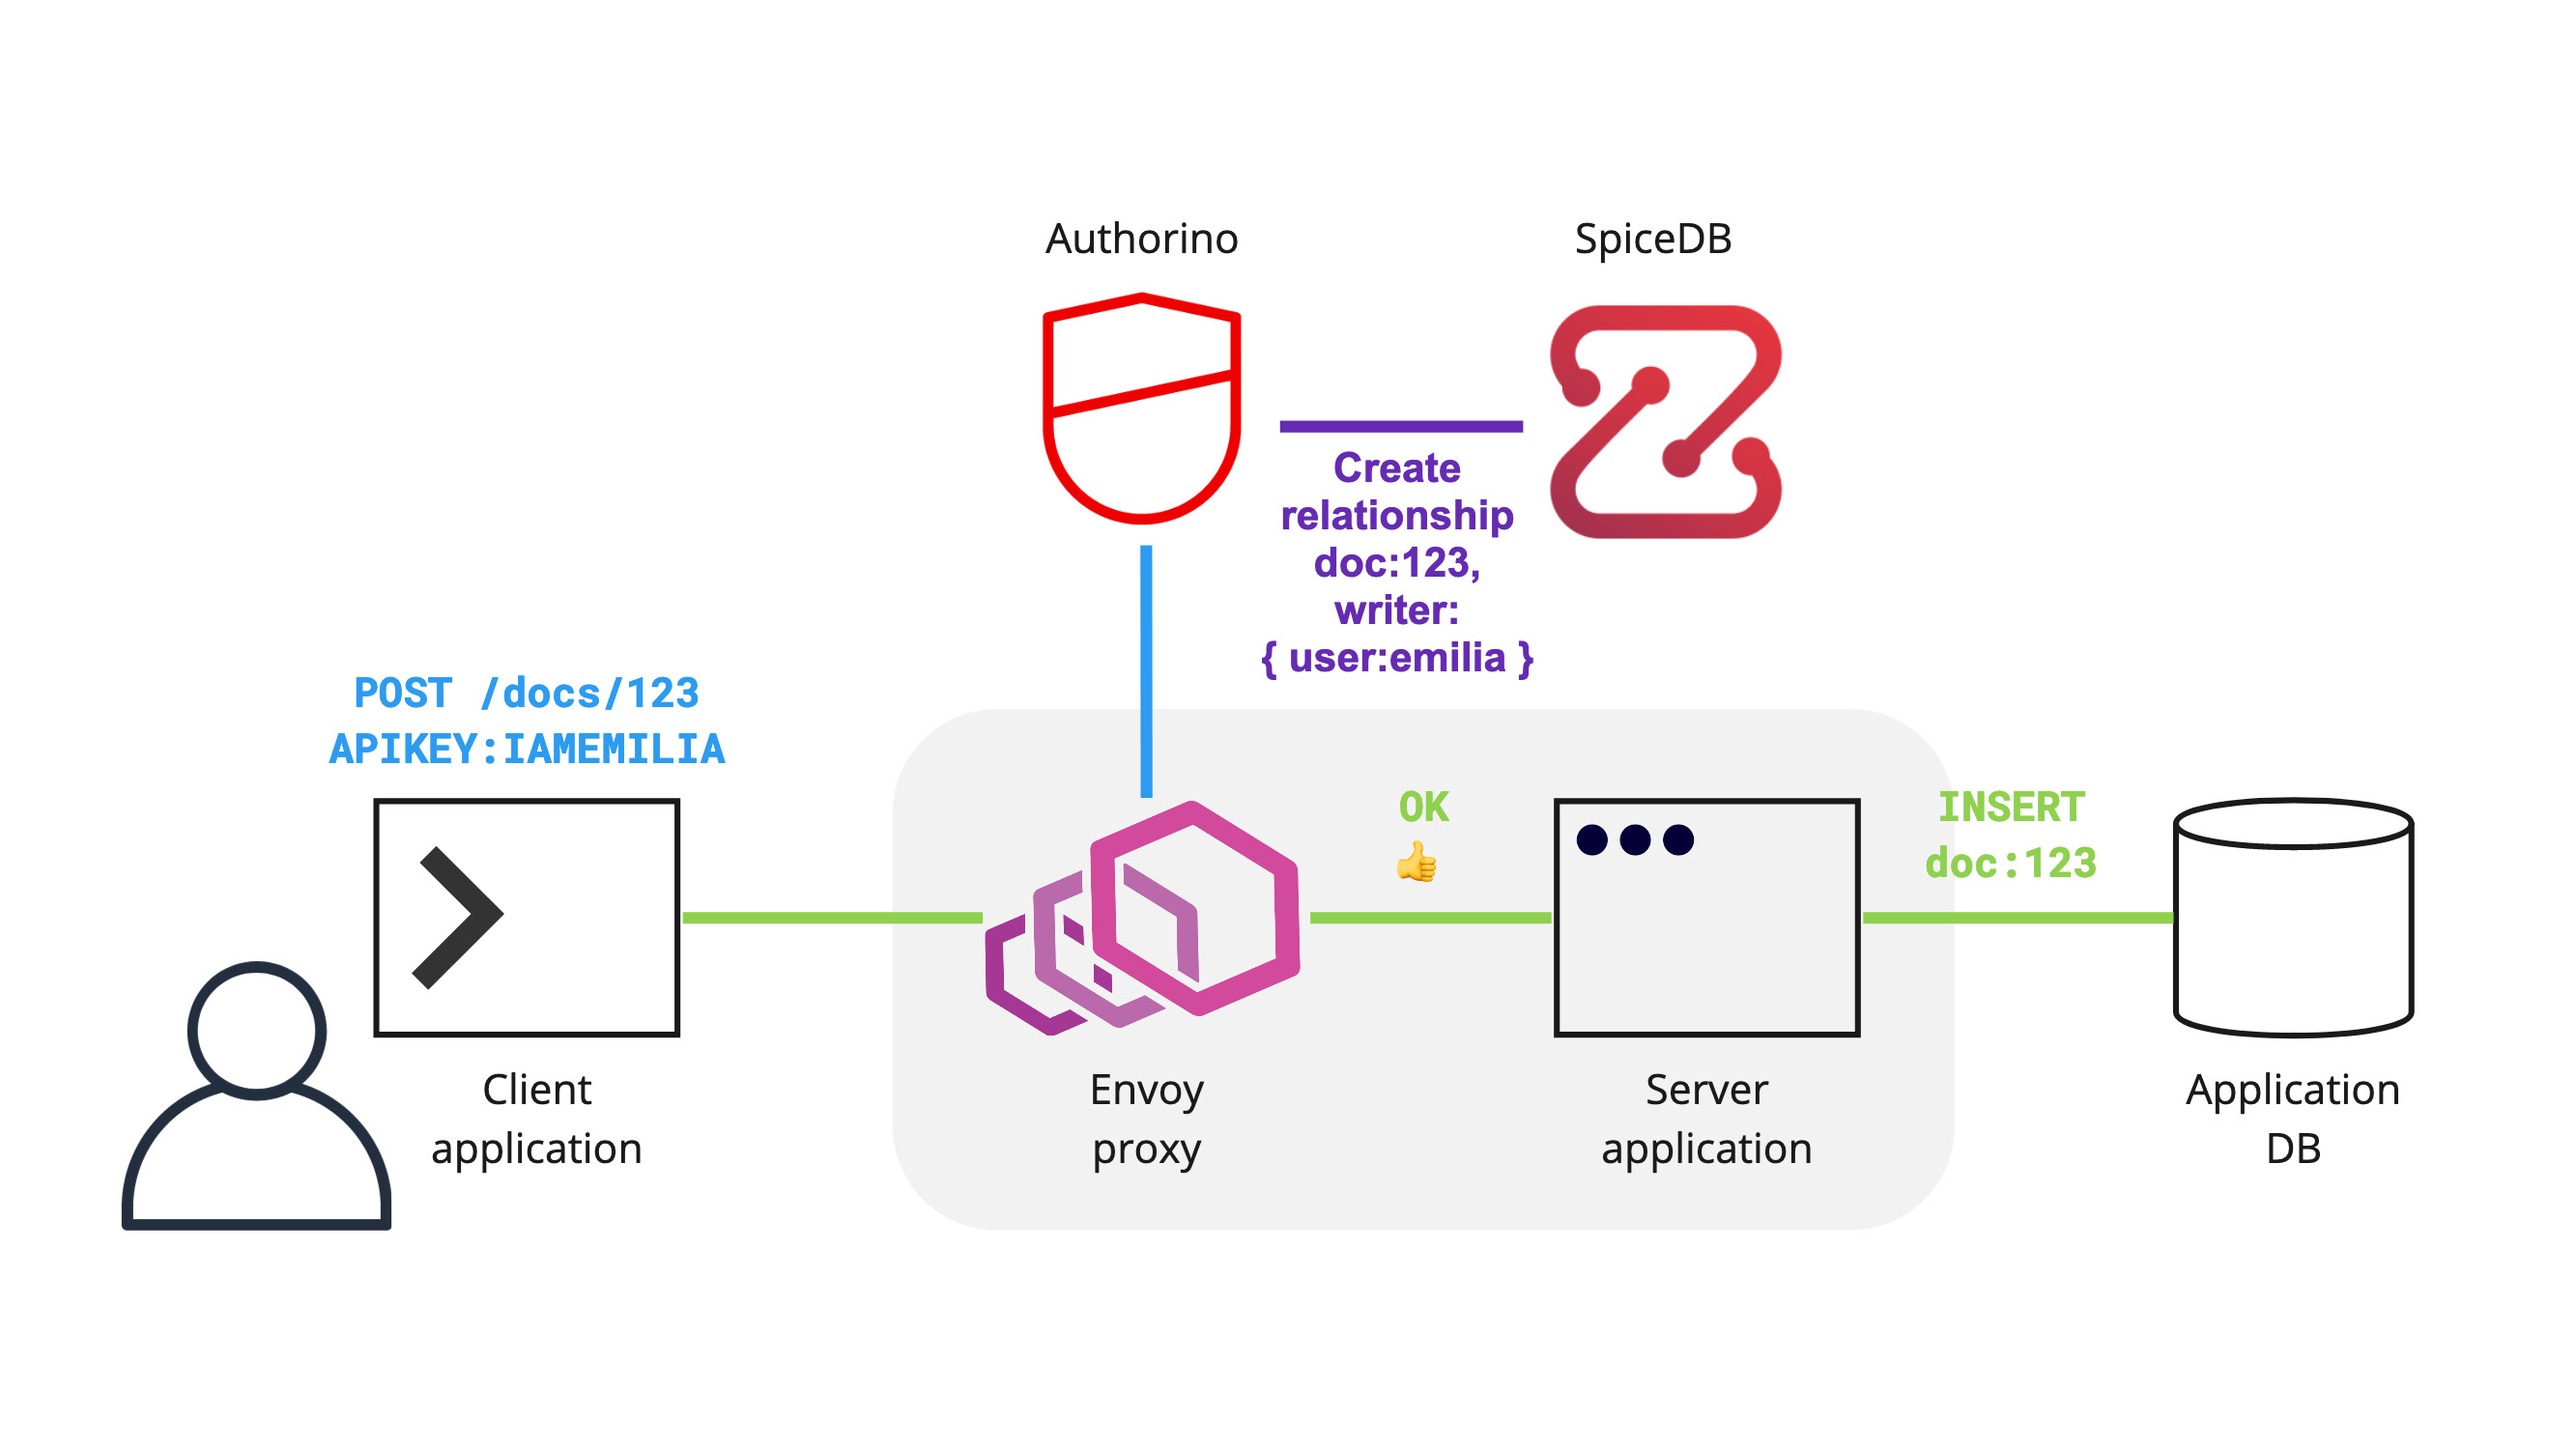
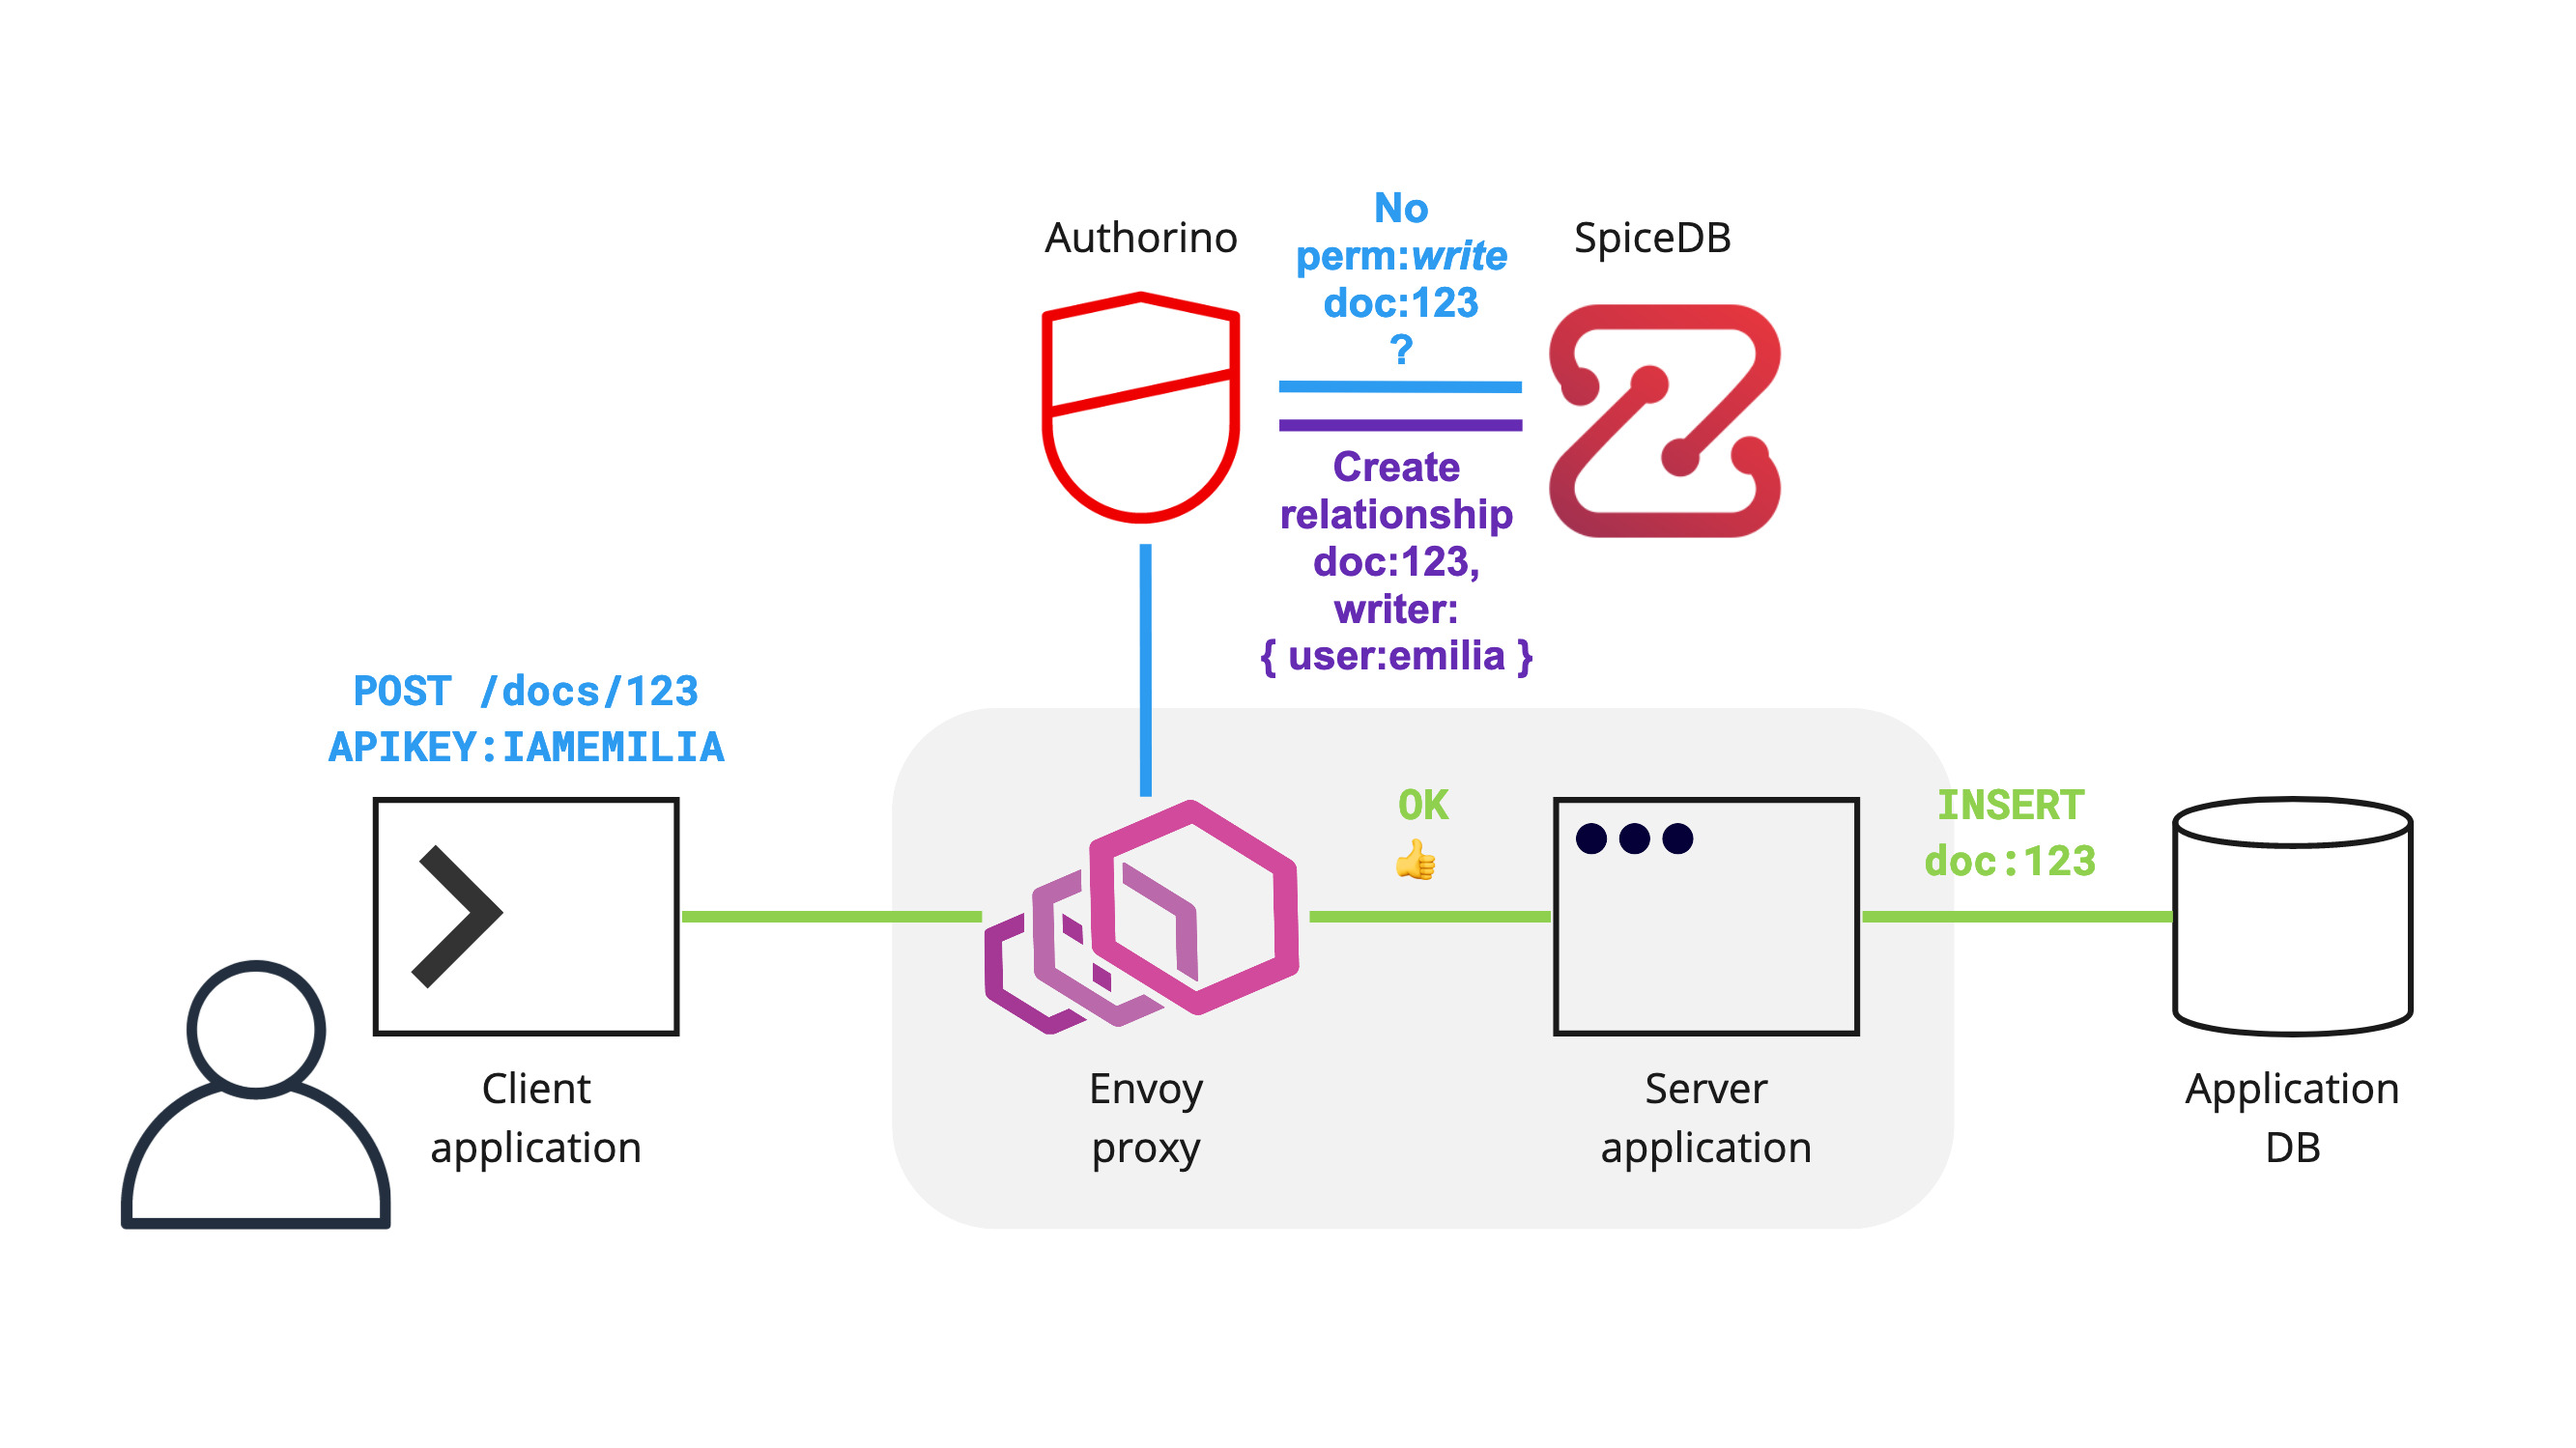
bug fix: do not send callbacks without checking the authorization and avoid multiple write relationships on the same doc

diff --git a/README.md b/README.md
@@ -503,6 +503,22 @@ The full scope of the demo consists of protecting endpoints of a REST API that h
     hosts:
       - docs-api.127.0.0.1.nip.io
 
+    patterns:
+      create:
+        - selector: context.request.http.method
+          operator: eq
+          value: POST
+        - selector: context.request.http.path.@extract:{"sep":"/","pos":3}
+          operator: neq
+          value: allow
+      list:
+        - selector: context.request.http.method
+          operator: eq
+          value: GET
+        - selector: context.request.http.path.@extract:{"sep":"/","pos":2}
+          operator: eq
+          value: ""
+
     # Users authenticated with API keys
     identity:
       - name: api-key-users
@@ -515,15 +531,10 @@ The full scope of the demo consists of protecting endpoints of a REST API that h
           keySelector: APIKEY
 
     metadata:
-      # List resources → lookup resources the user has access to
-      - name: permission-lookup
+      # List resources → lookup resources the user has read access to
+      - name: permission-lookup-read
         when:
-          - selector: context.request.http.method
-            operator: eq
-            value: GET
-          - selector: context.request.http.path.@extract:{"sep":"/","pos":2}
-            operator: eq
-            value: ""
+          - patternRef: list
         http:
           endpoint: http://spicedb.spicedb.svc.cluster.local:8443/v1/permissions/resources
           method: POST
@@ -540,6 +551,29 @@ The full scope of the demo consists of protecting endpoints of a REST API that h
                       "objectId":"{auth.identity.metadata.annotations.username}"
                     \}
                   \}
+                \}
+          sharedSecretRef:
+            name: spicedb
+            key: token
+
+      # Create resource → lookup resources the user has write access to
+      - name: permission-lookup-write
+        when:
+          - patternRef: create
+        http:
+          endpoint: http://spicedb.spicedb.svc.cluster.local:8443/v1/permissions/subjects
+          method: POST
+          contentType: application/json
+          body:
+            valueFrom:
+              authJSON: |
+                \{
+                  "resource": \{
+                    "objectType": "doc",
+                    "objectId": "{context.request.http.path.@extract:{"sep":"/","pos":2}}"
+                  \},
+                  "permission": "write",
+                  "subjectObjectType": "user"
                 \}
           sharedSecretRef:
             name: spicedb
@@ -580,6 +614,16 @@ The full scope of the demo consists of protecting endpoints of a REST API that h
             valueFrom:
               authJSON: context.request.http.method.@replace:{"old":"GET","new":"read"}.@replace:{"old":"DELETE","new":"write"}
 
+      # Create a resource → ensure the writer relationship does not exist in SpiceDB
+      - name: create-resource
+        when:
+          - patternRef: create
+        json:
+          rules:
+            - selector: auth.metadata.permission-lookup-write.result
+              operator: eq
+              value: ""
+
       # Grant or revoke access to resource → check in SpiceDB if the user has write permission
       - name: grant-or-revoke-access-to-resource
         when:
@@ -611,12 +655,7 @@ The full scope of the demo consists of protecting endpoints of a REST API that h
       # Create new resource → inject user info in the request
       - name: x-ext-auth-data
         when:
-          - selector: context.request.http.method
-            operator: eq
-            value: POST
-          - selector: context.request.http.path.@extract:{"sep":"/","pos":3}
-            operator: neq
-            value: allow
+          - patternRef: create
         json:
           properties:
             - name: author
@@ -627,31 +666,23 @@ The full scope of the demo consists of protecting endpoints of a REST API that h
       # List resources → filter resource ids the user has access to
       - name: x-filter
         when:
-          - selector: context.request.http.method
-            operator: eq
-            value: GET
-          - selector: context.request.http.path.@extract:{"sep":"/","pos":2}
-            operator: eq
-            value: ""
+          - patternRef: list
         json:
           properties:
             - name: id
               valueFrom:
-                authJSON: auth.metadata.permission-lookup.result.resourceObjectId
+                authJSON: auth.metadata.permission-lookup-read.result.resourceObjectId
             - name: ids
               valueFrom:
-                authJSON: auth.metadata.permission-lookup.#.result.resourceObjectId
+                authJSON: auth.metadata.permission-lookup-read.#.result.resourceObjectId
 
     callbacks:
       # Create new resource → create 'writer' relationship in SpiceDB
       - name: create-resource
         when:
-          - selector: context.request.http.method
-            operator: eq
-            value: POST
-          - selector: context.request.http.path.@extract:{"sep":"/","pos":3}
+          - selector: auth.authorization.create-resource
             operator: neq
-            value: allow
+            value: ""
         http:
           endpoint: http://spicedb.spicedb.svc.cluster.local:8443/v1/relationships/write
           method: POST
@@ -686,12 +717,12 @@ The full scope of the demo consists of protecting endpoints of a REST API that h
       # Delete resource → delete all corresponding relationships in SpiceDB
       - name: delete-resource
         when:
+          - selector: auth.authorization.read-or-delete-resource
+            operator: neq
+            value: ""
           - selector: context.request.http.method
             operator: eq
             value: DELETE
-          - selector: auth.authorization.spicedb
-            operator: neq
-            value: ""
         http:
           endpoint: http://spicedb.spicedb.svc.cluster.local:8443/v1/relationships/delete
           method: POST
@@ -712,12 +743,12 @@ The full scope of the demo consists of protecting endpoints of a REST API that h
       # Grant access to resource → create 'reader' relationship in SpiceDB
       - name: grant-access
         when:
+          - selector: auth.authorization.grant-or-revoke-access-to-resource
+            operator: neq
+            value: ""
           - selector: context.request.http.method
             operator: eq
             value: POST
-          - selector: context.request.http.path.@extract:{"sep":"/","pos":3}
-            operator: eq
-            value: allow
         http:
           endpoint: http://spicedb.spicedb.svc.cluster.local:8443/v1/relationships/write
           method: POST
@@ -752,12 +783,12 @@ The full scope of the demo consists of protecting endpoints of a REST API that h
       # Revoke access to resource → delete 'reader' relationships in SpiceDB
       - name: revoke-access
         when:
+          - selector: auth.authorization.grant-or-revoke-access-to-resource
+            operator: neq
+            value: ""
           - selector: context.request.http.method
             operator: eq
             value: DELETE
-          - selector: context.request.http.path.@extract:{"sep":"/","pos":3}
-            operator: eq
-            value: allow
         http:
           endpoint: http://spicedb.spicedb.svc.cluster.local:8443/v1/relationships/delete
           method: POST
@@ -1027,7 +1058,8 @@ The full scope of the demo consists of protecting endpoints of a REST API that h
   curl -H 'Authorization: APIKEY IAMEMILIA' \
      -X GET \
      http://docs-api.127.0.0.1.nip.io/docs/123 -i
-  # HTTP/1.1 404 Not Found
+  # HTTP/1.1 403 Forbidden
+  # x-ext-auth-reason: PERMISSIONSHIP_NO_PERMISSION;token=...
   ```
 </details>
 
